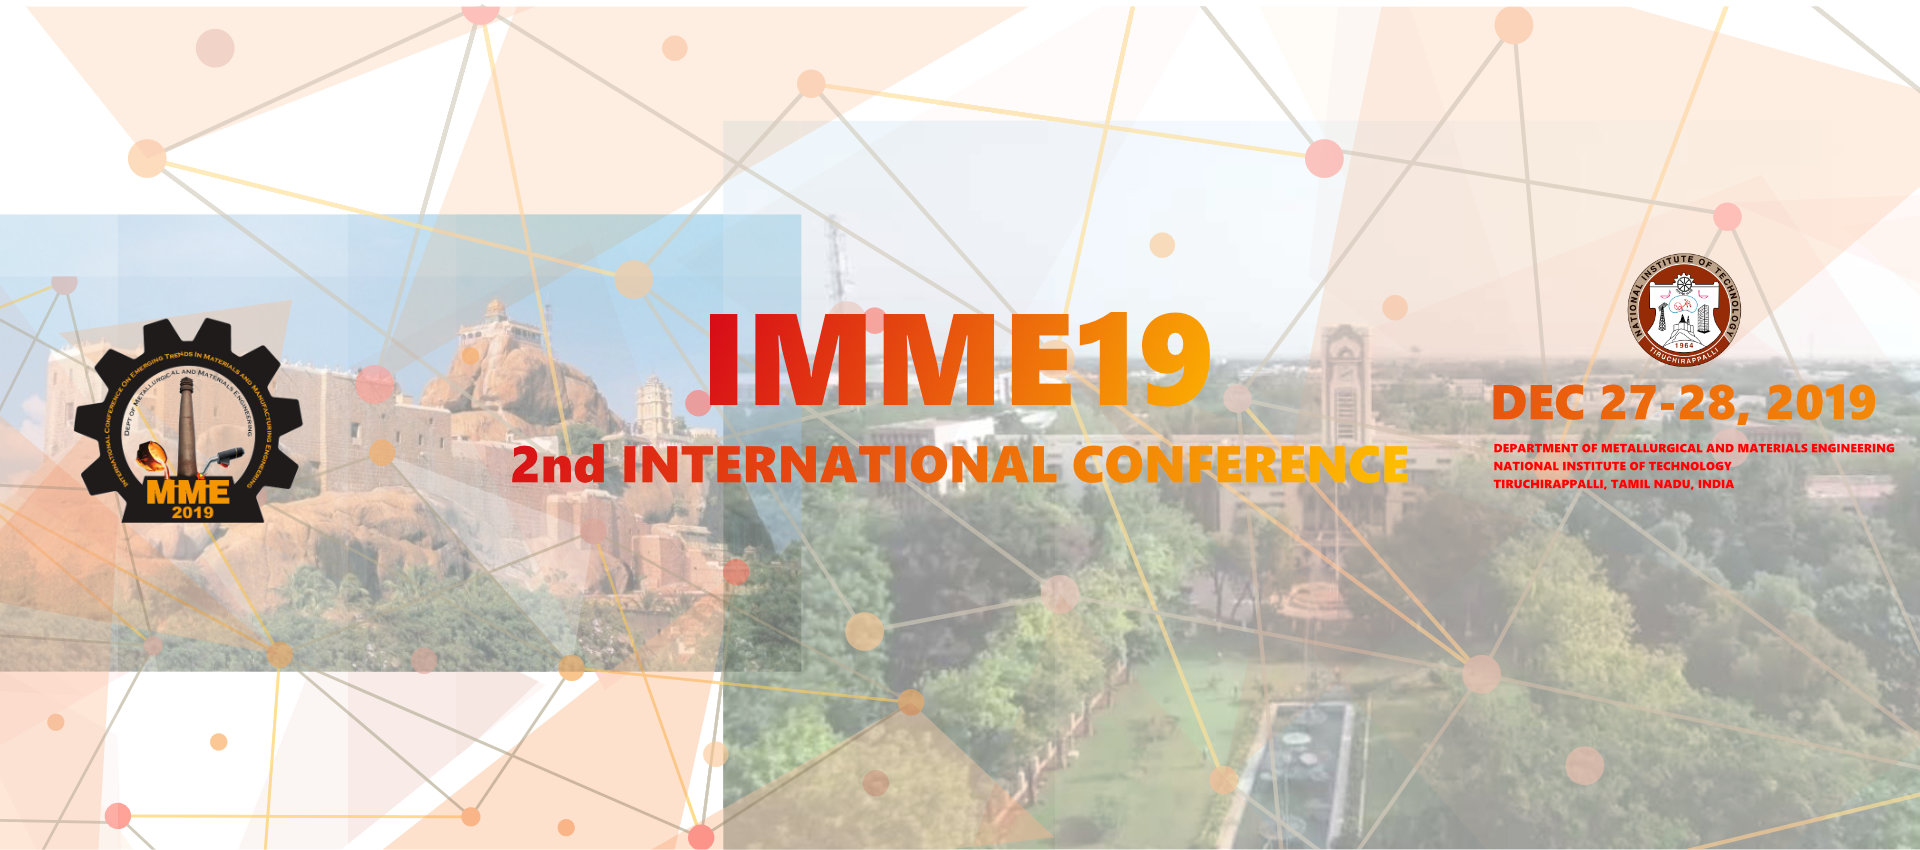
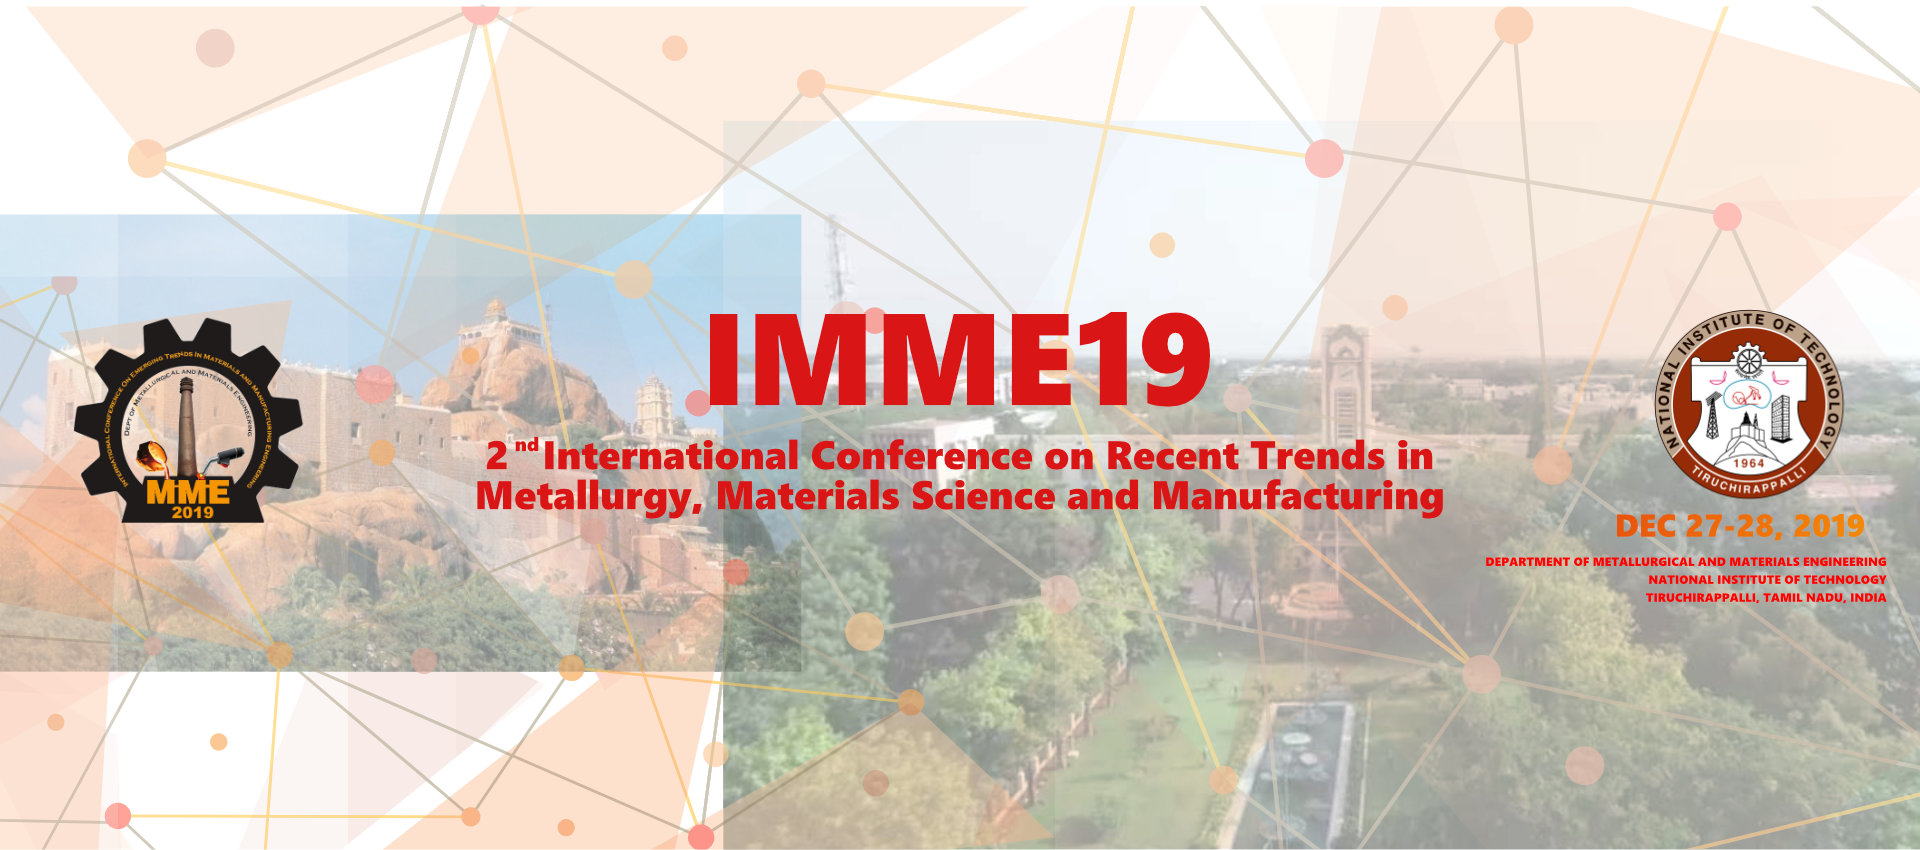
Update - IMME19 v6.4 Committee Page, Home Page

Changed region(s): [[0.75, 0.2753, 1.0, 0.7341], [0.25, 0.52, 0.75, 0.6118], [0.4062, 0.3671, 0.6562, 0.4894]]

diff --git a/IMME19/index.html b/IMME19/index.html
@@ -183,8 +183,9 @@
                     <div class="section-heading">
                         <h5>About the Conference</h5>
                     </div>
-                  <p>The International Conference on Recent Trends in Metallurgy, Materials Science and Manufacturing (IMME19) is organized by the Department of Metallurgical and Materials Engineering, National Institute of Technology Tiruchirappalli. This is the the second edition of the biennial IMME conference series. The IMME17 was successfully conducted during 10-12 March 2017 with more than 400 paper presentations and all the accepted papers were published in refereed journals. The IMME19 also expects cheerful participation of more than 400 delegates from both India and abroad, and all the accepted papers will be published in refereed journals.
-                  </p><p>  The objective of the conference is to bring experts and budding researchers together on a common platform to discuss and exchange ideas on recent developments, findings and progresses in wide areas related to metallurgy, materials science, and manufacturing. This will provide opportunities to the new researchers to explore novel ideas and cutting edge techniques in their research through interaction with the experts in the respective fields. It also aims at impart in sound knowledge and expertise in selected research fields through key note lectures delivered by eminent speakers from India and abroad.</p>
+                  <p style="text-align: justify;">The International Conference on Recent Trends in Metallurgy, Materials Science and Manufacturing (IMME19) is organized by the Department of Metallurgical and Materials Engineering, National Institute of Technology Tiruchirappalli. This is the the second edition of the biennial IMME conference series. The IMME17 was successfully conducted during 10-12 March 2017 with more than 400 paper presentations and all the accepted papers were published in refereed journals. The IMME19 also expects cheerful participation of more than 400 delegates from both India and abroad, and all the accepted papers will be published in refereed journals.
+                      <br>
+                      The objective of the conference is to bring experts and budding researchers together on a common platform to discuss and exchange ideas on recent developments, findings and progresses in wide areas related to metallurgy, materials science, and manufacturing. This will provide opportunities to the new researchers to explore novel ideas and cutting edge techniques in their research through interaction with the experts in the respective fields. It also aims at impart in sound knowledge and expertise in selected research fields through key note lectures delivered by eminent speakers from India and abroad.</p>
 
                     <hr>
 
@@ -193,14 +194,14 @@
                     <div class="section-heading">
                         <h5>About the Department</h5>
                     </div>
-                    <p>Established in the year 1967, the Department of Metallurgical and Materials Engineering has been one of the premier centers of excellence in the field of Metallurgical and Materials Engineering. It offers outstanding technical education in B.Tech. (Metallurgical and Materials Engineering), three M.Tech. programmes with specialisations in Materials Science & Engineering, Welding Engineering and Industrial Metallurgy, MS (by research) and Ph.D. Programmes. The department is equipped with state of-the-art laboratories and tools to foster research and practical expertise in areas related to metallurgical and materials engineering. Eminent faculty members of this department have made tremendous contributions in imparting knowledge to the young minds for the betterment of the society and nation. Current research activities of the department comprise both in traditional metallurgy related areas such as physical, mechanical and extractive metallurgy, but also in modern areas such as biomaterials, ceramics, polymers, high entropy alloys, thermoelectric materials, computational materials science and various other structural and functional materials.</p>
+                    <p style="text-align: justify;">Established in the year 1967, the Department of Metallurgical and Materials Engineering has been one of the premier centers of excellence in the field of Metallurgical and Materials Engineering. It offers outstanding technical education in B.Tech. (Metallurgical and Materials Engineering), three M.Tech. programmes with specialisations in Materials Science & Engineering, Welding Engineering and Industrial Metallurgy, MS (by research) and Ph.D. Programmes. The department is equipped with state of-the-art laboratories and tools to foster research and practical expertise in areas related to metallurgical and materials engineering. Eminent faculty members of this department have made tremendous contributions in imparting knowledge to the young minds for the betterment of the society and nation. Current research activities of the department comprise both in traditional metallurgy related areas such as physical, mechanical and extractive metallurgy, but also in modern areas such as biomaterials, ceramics, polymers, high entropy alloys, thermoelectric materials, computational materials science and various other structural and functional materials.</p>
 
                     <hr>
                     <!-- Section Title -->
                     <div class="section-heading">
                         <h5>About NIT Tiruchirappalli</h5>
                     </div>
-                    <p>National Institute of Technology (formerly known as Regional Engineering College), Tiruchirappalli (NITT) is one of the premier educational institutions in India creating scientists, engineers, and technocrats to cater to the country's growing need for research and development (R&D) and technological manpower. It offers 10 undergraduate and 27 postgraduate programs in disciplines spanning engineering, science, architecture, and management. It has been declared as an Institute of National Importance by the Government of India under the NIT Act. According to the ranking (NIRF) of the Indian Universities 2019 by the Ministry of Human Resource Development, Government of India, NIT Trichy has been ranked as the 10th best Institute in engineering category and 1st among the NITs. NITT is the only NIT listed in the Top 250 QS Asia University Rankings 2018. The institute has signed MoUs with various industries and institutions both in India and abroad to promote collaborative research and consultancy. It has been awarded FICCI University of the Year 2017, CII-AICTE best industry linked institute, FICCI excellence award for social responsibility (2017), FICCI excellence award for Employability (2016).</p>
+                    <p style="text-align: justify;" >National Institute of Technology (formerly known as Regional Engineering College), Tiruchirappalli (NITT) is one of the premier educational institutions in India creating scientists, engineers, and technocrats to cater to the country's growing need for research and development (R&D) and technological manpower. It offers 10 undergraduate and 27 postgraduate programs in disciplines spanning engineering, science, architecture, and management. It has been declared as an Institute of National Importance by the Government of India under the NIT Act. According to the ranking (NIRF) of the Indian Universities 2019 by the Ministry of Human Resource Development, Government of India, NIT Trichy has been ranked as the 10th best Institute in engineering category and 1st among the NITs. NITT is the only NIT listed in the Top 250 QS Asia University Rankings 2018. The institute has signed MoUs with various industries and institutions both in India and abroad to promote collaborative research and consultancy. It has been awarded FICCI University of the Year 2017, CII-AICTE best industry linked institute, FICCI excellence award for social responsibility (2017), FICCI excellence award for Employability (2016).</p>
 
                     <hr>
                     <!-- Section Title -->
@@ -208,10 +209,12 @@
                     <div class="section-heading">
                         <h5>About Tiruchirappalli City</h5>
                     </div>
-                    <p>The historical city of Tiruchirappalli in Tamil Nadu, India is also known as Tiruchi or Trichy, situated on the banks of the river Cauvery and is the fourth largest city in Tamil Nadu. Trichy is famous for its rich cultural and wonderful architectural heritage and the town represents a fine blend of tradition and modernity. It is also famous for artificial diamonds, cigars, hand loom cloth, and glass bangles. Trichy has several ancient and holy temples, mosque, basilica, and churches apart from a large number of tourist attractions. The rock fort is a well-known landmark of the city. Located at a distance of 15 km from Tiruchirapalli, ‘Kallanai’ was originally constructed across river Cauvery by the Chola king Karikalan around the 2nd Century AD and is considered to be one of the oldest water-diversion or water-regulator structures in the world which is still in use.
-                        </p><p>  Historical and sacred destinations like Srirangam Temple, Tanjore Big Temple, Madurai Meenakshi Temple, Rameshwaram Temple, Vailankanni Basilica, Poondi Matha Basilica, and Nagore Dargah are not only the most important pilgrimage centers but also speak the cultural heritage of ancient Tamil Nadu.
-                        </p><p>  The popular hill stations such as Ooty, Kodaikanal and Yercaud, and Courtralam waterfalls are also nearby. </p>
-
+                    <p style="text-align: justify;" >The historical city of Tiruchirappalli in Tamil Nadu, India is also known as Tiruchi or Trichy, situated on the banks of the river Cauvery and is the fourth largest city in Tamil Nadu. Trichy is famous for its rich cultural and wonderful architectural heritage and the town represents a fine blend of tradition and modernity. It is also famous for artificial diamonds, cigars, hand loom cloth, and glass bangles. Trichy has several ancient and holy temples, mosque, basilica, and churches apart from a large number of tourist attractions. The rock fort is a well-known landmark of the city. Located at a distance of 15 km from Tiruchirapalli, ‘Kallanai’ was originally constructed across river Cauvery by the Chola king Karikalan around the 2nd Century AD and is considered to be one of the oldest water-diversion or water-regulator structures in the world which is still in use.
+                        <br>
+                        Historical and sacred destinations like Srirangam Temple, Tanjore Big Temple, Madurai Meenakshi Temple, Rameshwaram Temple, Vailankanni Basilica, Poondi Matha Basilica, and Nagore Dargah are not only the most important pilgrimage centers but also speak the cultural heritage of ancient Tamil Nadu.
+                        <br>
+                        The popular hill stations such as Ooty, Kodaikanal and Yercaud, and Courtralam waterfalls are also nearby.
+                    </p>
                     <hr>
                     <!--About us End-->
 

diff --git a/IMME19/committee.html b/IMME19/committee.html
@@ -385,7 +385,7 @@
                         </div>-->
                         <div class="team-member-content">
                             <h6><a href="https://www.nitt.edu/home/academics/departments/meta/faculty/prof/snatarajan/">Prof. S. Natarajan</a></h6>
-                            <span>Professor</span>
+<!--                            <span>Professor</span>-->
                             <p>Department of Metallurgical and Materials Engineering, National Institute of Technology, Tiruchirappalli, Tamil Nadu, India</p>
                         </div>
                     </div>
@@ -400,7 +400,7 @@
                         </div>-->
                         <div class="team-member-content">
                             <h6><a href="https://www.nitt.edu/home/academics/departments/meta/faculty/asstprof/spkb/">Prof. S.P. Kumaresh Babu</a></h6>
-                            <span>Professor</span>
+                            <!--<span>Professor</span>-->
                             <p>Department of Metallurgical and Materials Engineering, National Institute of Technology, Tiruchirappalli, Tamil Nadu, India</p>
                         </div>
                     </div>
@@ -415,7 +415,22 @@
                         </div>-->
                         <div class="team-member-content">
                             <h6><a href="https://www.nitt.edu/home/academics/departments/meta/faculty/asstprof/vsurianarayanan/">Prof. V. Suriyanarayanan</a></h6>
-                            <span>Professor</span>
+                            <!--<span>Professor</span>-->
+                            <p>Department of Metallurgical and Materials Engineering, National Institute of Technology, Tiruchirappalli, Tamil Nadu, India</p>
+                        </div>
+                    </div>
+                    <div class="single-team-member d-flex align-items-center">
+                        <!--<div class="team-member-thumbnail">
+                            <img src="img/bg-img/37.jpg" alt="">
+                            <div class="social-btn">
+                                <a href="#"><i class="fa fa-facebook" aria-hidden="true"></i></a>
+                                <a href="#"><i class="fa fa-twitter" aria-hidden="true"></i></a>
+                                <a href="#"><i class="fa fa-linkedin" aria-hidden="true"></i></a>
+                            </div>
+                        </div>-->
+                        <div class="team-member-content">
+                            <h6><a href="https://www.nitt.edu/home/academics/departments/meta/faculty/Lecturers/sjerome/">Dr. S. Jerome</a></h6>
+<!--                            <span>Professor</span>-->
                             <p>Department of Metallurgical and Materials Engineering, National Institute of Technology, Tiruchirappalli, Tamil Nadu, India</p>
                         </div>
                     </div>
